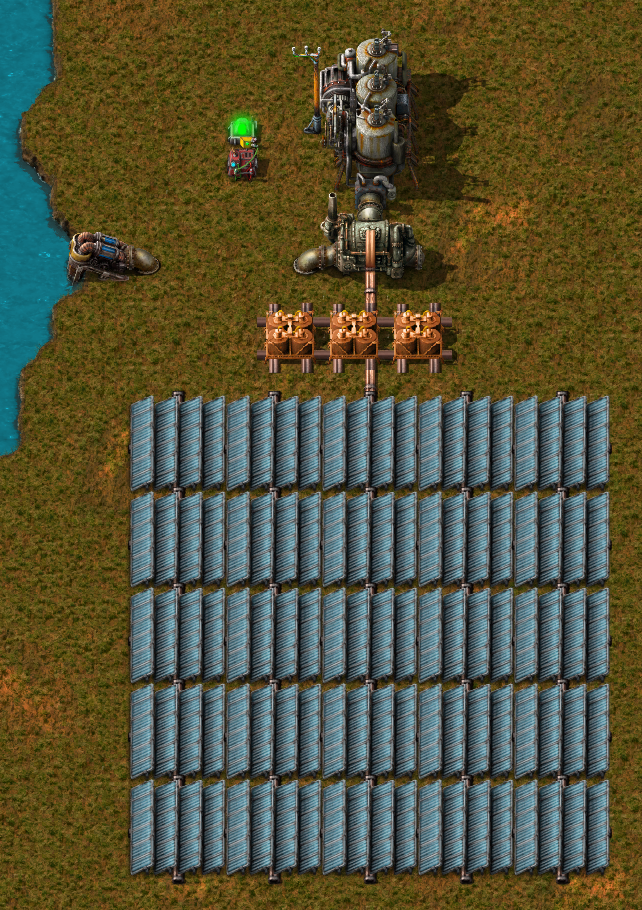
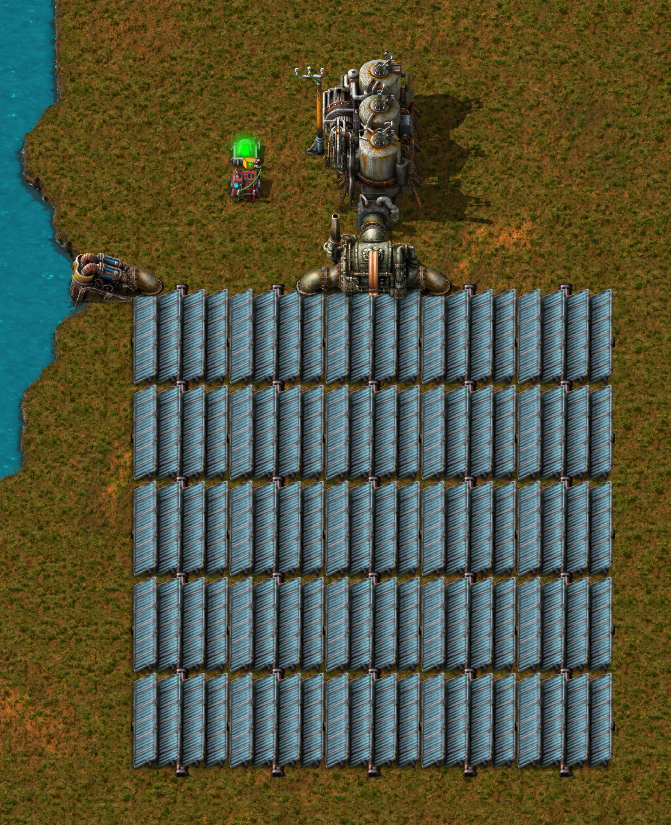
Update README, update examples.

diff --git a/README.md b/README.md
@@ -5,6 +5,8 @@ https://marximus.com
 
 Adds the ability to build a thermal solar complex an early game solution for clean energy; automaticaly adjusts the heat exchangers temperature to produce steam in the same temperatures as with Bob's Power.
 
+Note: Thermal Solar Panels take time to heat. Heat pipes will waste heat as they transfer heat. Molten Salt Heat Accumulators take A LONG time to heat up and will bottleneck early heat generation -- you only really need them if nights in your game are long; vanilla game/Nauvis nights are short enough to not need them.
+
 Forked from CW-thermal-solar-power v0.2.16 by CyberWizard2261 and merged in CWTSP_balance v1.0.1 by Caxx (Public Domain).
 
 # Features
@@ -112,16 +114,21 @@ Forked from CW-thermal-solar-power v0.2.16 by CyberWizard2261 and merged in CWTS
 
 # Example Usage
 
-* Generating electricity from heat:
+* Generating electricity from heat on a normal planet (vanilla/Nauvis) (NOTE: there are no heat pipes to lose any heat nor batteries necessary to store any heat, the panels will stay hot enough for "short" nights):
 > ![Example of Thermal Solar Power](https://raw.githubusercontent.com/MarximusMaximus/factorio-thermal-solar-power/main/assets/example-thermal-solar-power.png)
+
+* Generating electricity from heat on a planet with very long nights (NOTE: this setup will take a long time to heat up; more batteries = longer time to reach target temperature):
+> ![Example of Thermal Solar Power](https://raw.githubusercontent.com/MarximusMaximus/factorio-thermal-solar-power-battery/main/assets/example-thermal-solar-power.png)
 
 * Getting Salt:
 > ![Example of Salt Evaporation](https://raw.githubusercontent.com/MarximusMaximus/factorio-thermal-solar-power/main/assets/example-salt-evaporation.png)
+> ![Example of Salt Evaporation](https://raw.githubusercontent.com/MarximusMaximus/factorio-thermal-solar-power/main/assets/example-salt-evaporation-piped.png)
+
 
 # Future Development
 (if there is interest)
 
 * More solar power tiers?
-* New/hires sprites
+* New/hi-res sprites
 * UPS Improvements
 * Underground heat pipe (both basic and vanilla tier)
